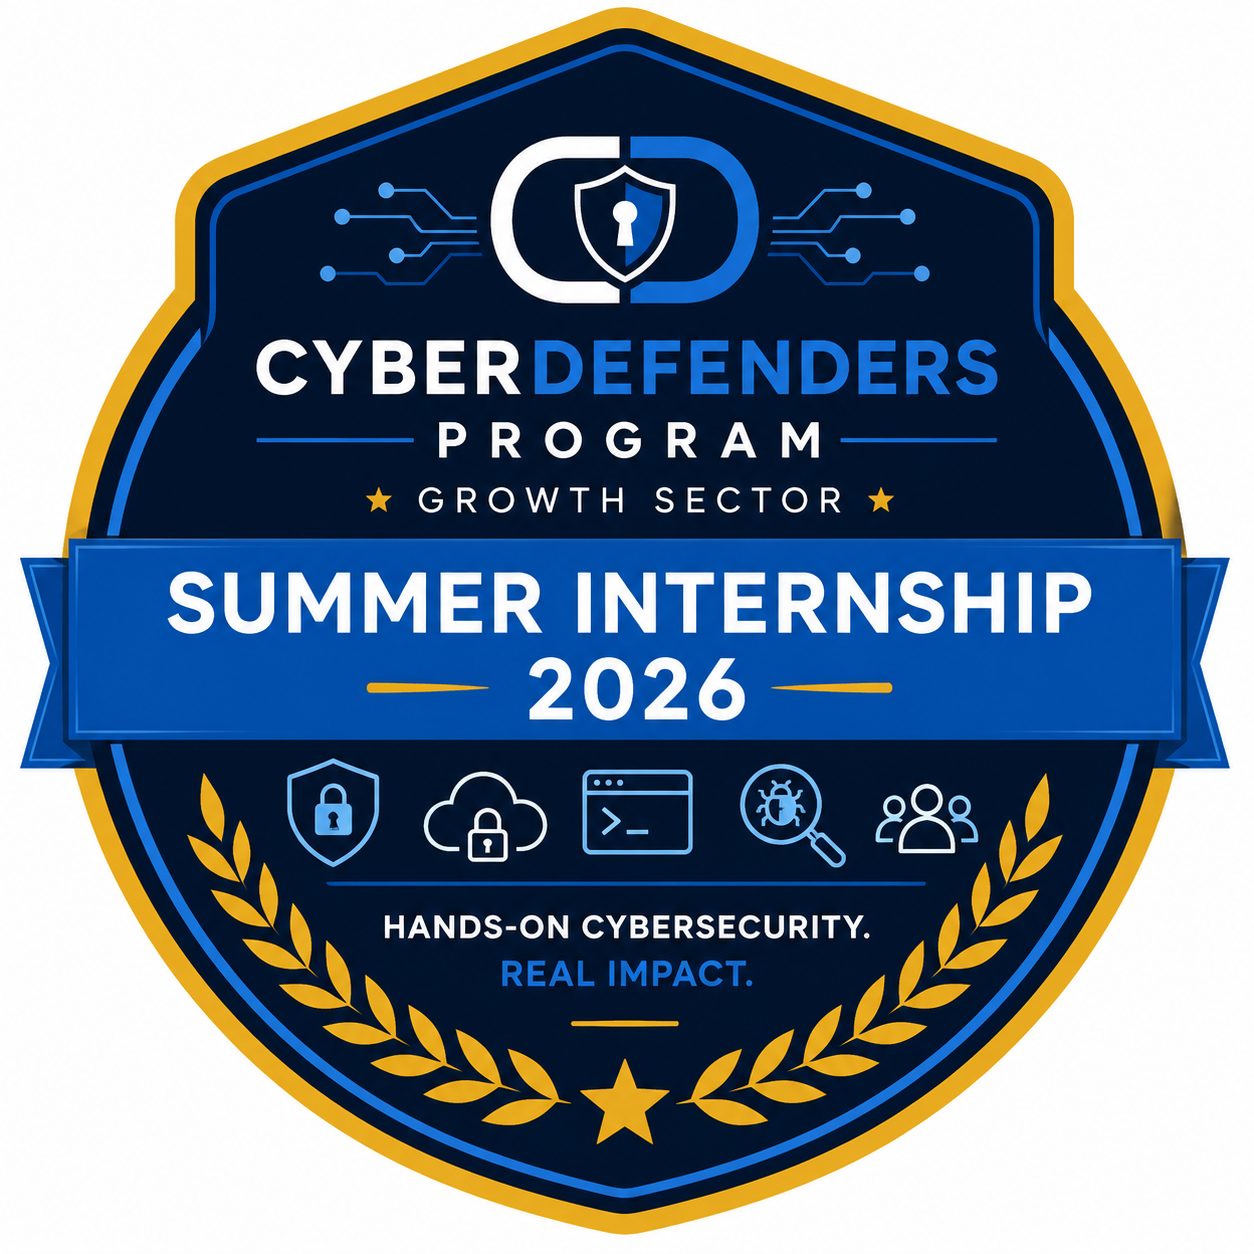
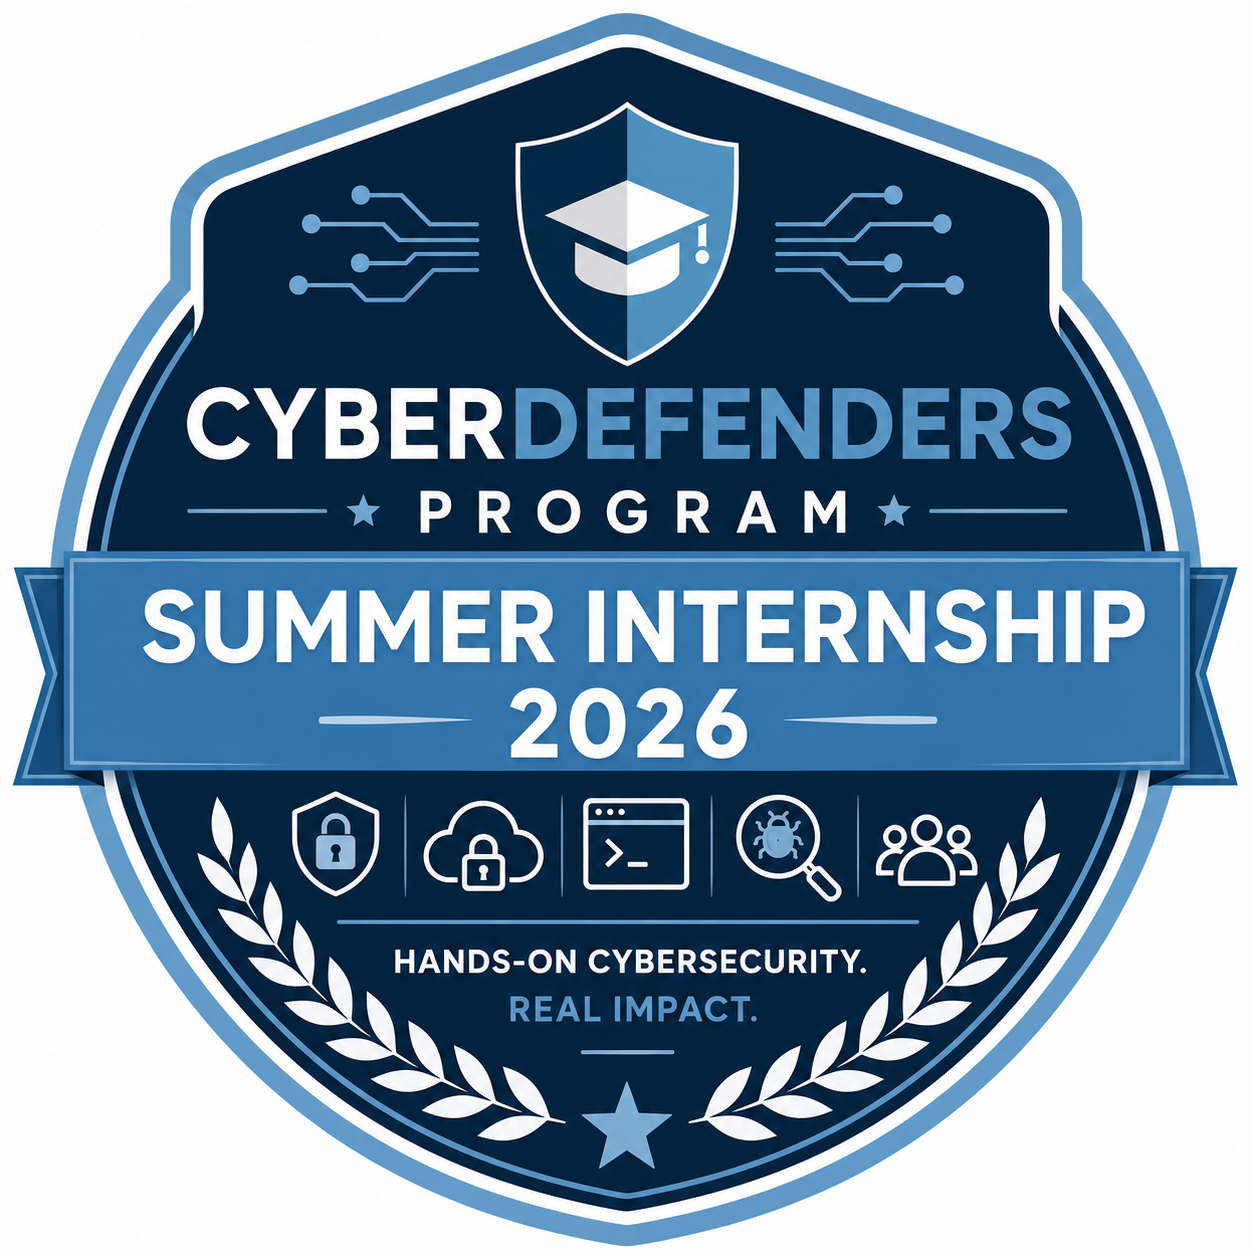
Update credential badge styling

diff --git a/assets/css/main.css b/assets/css/main.css
@@ -10770,7 +10770,7 @@ ul {
 /* credential verification pages */
 .credential-hero,
 .credential-linkedin-hero {
-  background: linear-gradient(135deg, #041B33 0%, #063D73 58%, #0E71D9 100%);
+  background: linear-gradient(135deg, #031A2F 0%, #05395F 52%, #5A9CCE 100%);
   color: #fff;
   overflow: hidden;
   position: relative;
@@ -10778,7 +10778,7 @@ ul {
 
 .credential-hero::after,
 .credential-linkedin-hero::after {
-  background: rgba(244, 178, 24, 0.16);
+  background: rgba(157, 205, 239, 0.18);
   border-radius: 999px;
   content: "";
   height: 420px;
@@ -10804,8 +10804,8 @@ ul {
 }
 
 .credential-verified-tag {
-  background: #F4B218 !important;
-  color: #041B33 !important;
+  background: #DDF0FB !important;
+  color: #031A2F !important;
   font-family: "Roboto Mono", monospace;
   font-weight: 700;
   margin-bottom: 1rem;
@@ -10814,7 +10814,7 @@ ul {
 .credential-id-panel {
   background: rgba(255, 255, 255, 0.1);
   border: 1px solid rgba(255, 255, 255, 0.22);
-  border-left: 6px solid #F4B218;
+  border-left: 6px solid #8BC2E8;
   border-radius: 6px;
   display: inline-flex;
   flex-direction: column;
@@ -10828,7 +10828,7 @@ ul {
 .credential-certificate .heading,
 .credential-sidebar .heading,
 .credential-post-card .heading {
-  color: #0E71D9;
+  color: #2D78A8;
   font-family: "Roboto Mono", monospace;
   font-weight: 700;
 }
@@ -10847,7 +10847,7 @@ ul {
 }
 
 .credential-body {
-  background: #EFF3F4;
+  background: #EDF5FA;
 }
 
 .credential-certificate,
@@ -10859,7 +10859,7 @@ ul {
 }
 
 .credential-certificate {
-  border-top: 6px solid #F4B218;
+  border-top: 6px solid #8BC2E8;
   padding: 2rem;
 }
 
@@ -10880,9 +10880,9 @@ ul {
 }
 
 .credential-skill-tag {
-  background: #EAF3FD !important;
-  border: 1px solid #BFD9F5;
-  color: #063D73 !important;
+  background: #EAF6FC !important;
+  border: 1px solid #B7DDF3;
+  color: #05395F !important;
   font-family: "Roboto Mono", monospace;
   font-weight: 700;
   height: auto;
@@ -10891,7 +10891,7 @@ ul {
 }
 
 .credential-sidebar {
-  border-left: 5px solid #0E71D9;
+  border-left: 5px solid #5A9CCE;
   padding: 1.5rem;
 }
 
@@ -10902,8 +10902,8 @@ ul {
 }
 
 .credential-evidence-button {
-  border-color: #0E71D9;
-  color: #063D73;
+  border-color: #5A9CCE;
+  color: #05395F;
   font-family: "Roboto Mono", monospace;
   font-weight: 700;
 }
@@ -10929,7 +10929,7 @@ ul {
 
 .credential-linkedin-fields div {
   background: #F6F9FC;
-  border-left: 4px solid #0E71D9;
+  border-left: 4px solid #5A9CCE;
   border-radius: 6px;
   padding: 1rem;
 }
@@ -10945,7 +10945,7 @@ ul {
 }
 
 .credential-linkedin-fields strong {
-  color: #041B33;
+  color: #031A2F;
   overflow-wrap: anywhere;
 }
 
@@ -10958,7 +10958,7 @@ ul {
 }
 
 .credential-post-card {
-  border-left: 5px solid #F4B218;
+  border-left: 5px solid #8BC2E8;
   margin-top: 2rem;
   padding: 2rem;
 }

diff --git a/assets/sass/main.scss b/assets/sass/main.scss
@@ -493,7 +493,7 @@ ul {
 /* credential verification pages */
 .credential-hero,
 .credential-linkedin-hero {
-  background: linear-gradient(135deg, #041B33 0%, #063D73 58%, #0E71D9 100%);
+  background: linear-gradient(135deg, #031A2F 0%, #05395F 52%, #5A9CCE 100%);
   color: #fff;
   overflow: hidden;
   position: relative;
@@ -501,7 +501,7 @@ ul {
 
 .credential-hero::after,
 .credential-linkedin-hero::after {
-  background: rgba(244, 178, 24, 0.16);
+  background: rgba(157, 205, 239, 0.18);
   border-radius: 999px;
   content: "";
   height: 420px;
@@ -527,8 +527,8 @@ ul {
 }
 
 .credential-verified-tag {
-  background: #F4B218 !important;
-  color: #041B33 !important;
+  background: #DDF0FB !important;
+  color: #031A2F !important;
   font-family: 'Roboto Mono', monospace;
   font-weight: 700;
   margin-bottom: 1rem;
@@ -537,7 +537,7 @@ ul {
 .credential-id-panel {
   background: rgba(255, 255, 255, 0.1);
   border: 1px solid rgba(255, 255, 255, 0.22);
-  border-left: 6px solid #F4B218;
+  border-left: 6px solid #8BC2E8;
   border-radius: 6px;
   display: inline-flex;
   flex-direction: column;
@@ -551,7 +551,7 @@ ul {
 .credential-certificate .heading,
 .credential-sidebar .heading,
 .credential-post-card .heading {
-  color: #0E71D9;
+  color: #2D78A8;
   font-family: 'Roboto Mono', monospace;
   font-weight: 700;
 }
@@ -570,7 +570,7 @@ ul {
 }
 
 .credential-body {
-  background: #EFF3F4;
+  background: #EDF5FA;
 }
 
 .credential-certificate,
@@ -582,7 +582,7 @@ ul {
 }
 
 .credential-certificate {
-  border-top: 6px solid #F4B218;
+  border-top: 6px solid #8BC2E8;
   padding: 2rem;
 }
 
@@ -603,9 +603,9 @@ ul {
 }
 
 .credential-skill-tag {
-  background: #EAF3FD !important;
-  border: 1px solid #BFD9F5;
-  color: #063D73 !important;
+  background: #EAF6FC !important;
+  border: 1px solid #B7DDF3;
+  color: #05395F !important;
   font-family: 'Roboto Mono', monospace;
   font-weight: 700;
   height: auto;
@@ -614,7 +614,7 @@ ul {
 }
 
 .credential-sidebar {
-  border-left: 5px solid #0E71D9;
+  border-left: 5px solid #5A9CCE;
   padding: 1.5rem;
 }
 
@@ -625,8 +625,8 @@ ul {
 }
 
 .credential-evidence-button {
-  border-color: #0E71D9;
-  color: #063D73;
+  border-color: #5A9CCE;
+  color: #05395F;
   font-family: 'Roboto Mono', monospace;
   font-weight: 700;
 }
@@ -652,7 +652,7 @@ ul {
 
 .credential-linkedin-fields div {
   background: #F6F9FC;
-  border-left: 4px solid #0E71D9;
+  border-left: 4px solid #5A9CCE;
   border-radius: 6px;
   padding: 1rem;
 }
@@ -668,7 +668,7 @@ ul {
 }
 
 .credential-linkedin-fields strong {
-  color: #041B33;
+  color: #031A2F;
   overflow-wrap: anywhere;
 }
 
@@ -681,7 +681,7 @@ ul {
 }
 
 .credential-post-card {
-  border-left: 5px solid #F4B218;
+  border-left: 5px solid #8BC2E8;
   margin-top: 2rem;
   padding: 2rem;
 }

diff --git a/_includes/head.html b/_includes/head.html
@@ -4,7 +4,7 @@
     <title>{{page.title}}</title>
     <link href="https://fonts.googleapis.com/css?family=Lato" rel="stylesheet">
     <link rel="icon" type="image/png" href={{"assets/images/logo-title.png" | absolute_url }}>
-    <link rel="stylesheet" href="{{ "/assets/css/main.css" | absolute_url }}">
+    <link rel="stylesheet" href="/assets/css/main.css?v={{ site.time | date: '%s' }}">
     <script defer src="https://use.fontawesome.com/releases/v5.3.1/js/all.js"></script>
     <!-- Global site tag (gtag.js) - Google Analytics -->
     <script async src="https://www.googletagmanager.com/gtag/js?id=UA-137483057-1"></script>